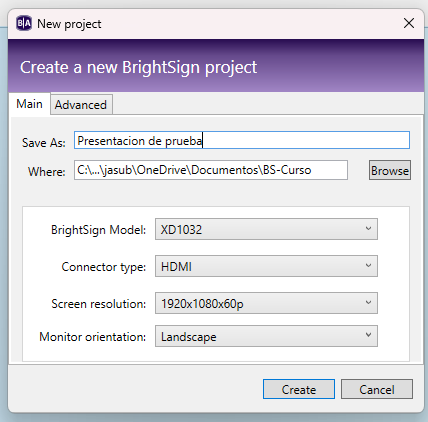
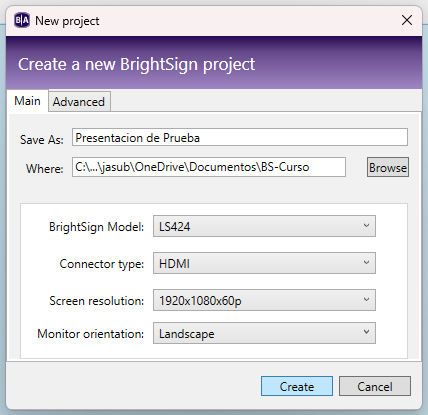
Se añadio mas informacion a Crear presentacion

Changed region(s): [[0.0, 0.0, 1.0, 1.0], [0.0911, 0.4916, 0.8808, 0.5783], [0.1215, 0.6072, 0.8808, 0.6651]]

diff --git a/src/app/documentacion/introduccion/05-creando-presentacion/page.jsx b/src/app/documentacion/introduccion/05-creando-presentacion/page.jsx
@@ -2,6 +2,7 @@ import { DialogBox } from "@/components/DialogBox";
 import { NextPage } from "@/components/NextPage";
 import { PreviusPage } from "@/components/PreviusPage";
 import { Highlighted } from '@/components/Highlighted'
+import Link from "next/link";
 
 
 
@@ -50,6 +51,55 @@ export default function CreandoPresentacionPage(){
            💡 Recuerda que en la carpeta donde guardes tu presentación deberás guardar también tus Imágenes, videos y archivos que vayas a utilizar.
           </DialogBox>
 
+          <p>En la sección siguiente tenemos <Highlighted>BrightSign Model</Highlighted>, donde colocaremos entre la lista de opciones el modelo del Player que 
+          tenemos, debido a que los Players tienen diferentes características dependiendo el modelo.</p>
+          <p>El modelo viene en la parte inferior del player. En mi caso usare un <Highlighted>LS424</Highlighted> para este ejemplo.</p>
+
+          <img className="my-8 m-auto w-full lg:w-3/5" src="/img/players-models/pyr-bottom.png" alt="Modelo del player" />
+
+          <p>Después tenemos <Highlighted>Connector type</Highlighted>, aquí lo más probable es que sea HDMI, sin embargo, si pensamos conectar el Player por VGA o DVI, debemos cambiar esta opción.</p>
+          <p>La tercera opción es <Highlighted>Screen Resolution</Highlighted>, aquí de igual forma podemos seleccionar la resolución de nuestro contenido dependiendo la pantalla donde lo proyectaremos y los FPS.</p>
+          <p>Los Players de 5ta generación ya son capaces de soportar hasta 4k y 8k usando las versiones de BrightAuthor 5.0 en adelante.</p>
+
+          <DialogBox>
+            💡 En este caso, que estoy usando la versión 4.7.2.18, solo soporta players de hasta 4ta generación y presentaciones 1080p a 60fps
+          </DialogBox>
+
+          <p>Por último, tenemos <Highlighted>Monitor Orintation</Highlighted>, que es para poner la presentación en modo vertical en caso de requerirlo.</p>
+          <p>Una vez configurados todos los parámetros, presionaremos en <Highlighted>Create</Highlighted>.</p>
+          <p>Se nos desplegará una ventana donde nos dará una serie de opciones de plantillas predefinidas que podemos usar para acomodar nuestro contenido.</p>
+          <p>Seleccionemos <Highlighted>FullScreen</Highlighted> para este ejemplo. Recuerda que puedes encontrar todo sobre las plantillas y cómo crear las nuestras 
+          en la sección <Link className='link' href='/'>PLANTILLAS</Link> más adelante.</p>
+
+          <img className="my-8 m-auto w-full lg:w-3/5" src="/img/bs-author/bsa-layout-template-window.png" alt="Plantillas de presentacion" />
+
+          <p>Una vez haciendo esto, se nos abrirá el programa en la pestaña de <Highlighted>Edit</Highlighted>, aquí será donde agregaremos el contenido a la presentación, tanto al crear 
+            una nueva como al editar una existente.</p>
+          
+          <img className="my-8 m-auto w-full " src="/img/bs-author/bsa-edit-zones.png" alt="zonas de la pestaña edit" />
+
+          <p>En esta pestaña tenemos 3 zonas principales.</p>
+
+          <DialogBox type="comment">
+            <ul>
+              <li className="pb-3">
+                Imágenes y videos de la presentación 🖼🎞: <br />
+                <div className="ml-12 mb-2 mt-0">Aquí es la zona donde colocaremos las imágenes y videos que deseamos añadir a la presentación.</div>
+              </li>
+              
+              <li className="pb-3">
+                Raíz del proyecto 📂:
+                <div className="ml-6 mb-2 mt-0">Aquí están los elementos que tenemos en la carpeta donde guardamos la presentación.</div>
+              </li>
+              
+              <li className="pb-3">
+                Zona de plantilla 📐:
+                <div className="ml-6 mb-2 mt-0">Aquí podemos ver el área que ocupa y el tipo de contenido que recibe. En este caso solo añadiremos imagen y video y la 
+              etiqueta correspondiente es de color verde.</div>
+              </li>
+              
+            </ul>
+          </DialogBox>
         </section>
 
         {/*----------------- Prefooter ------------- */}
